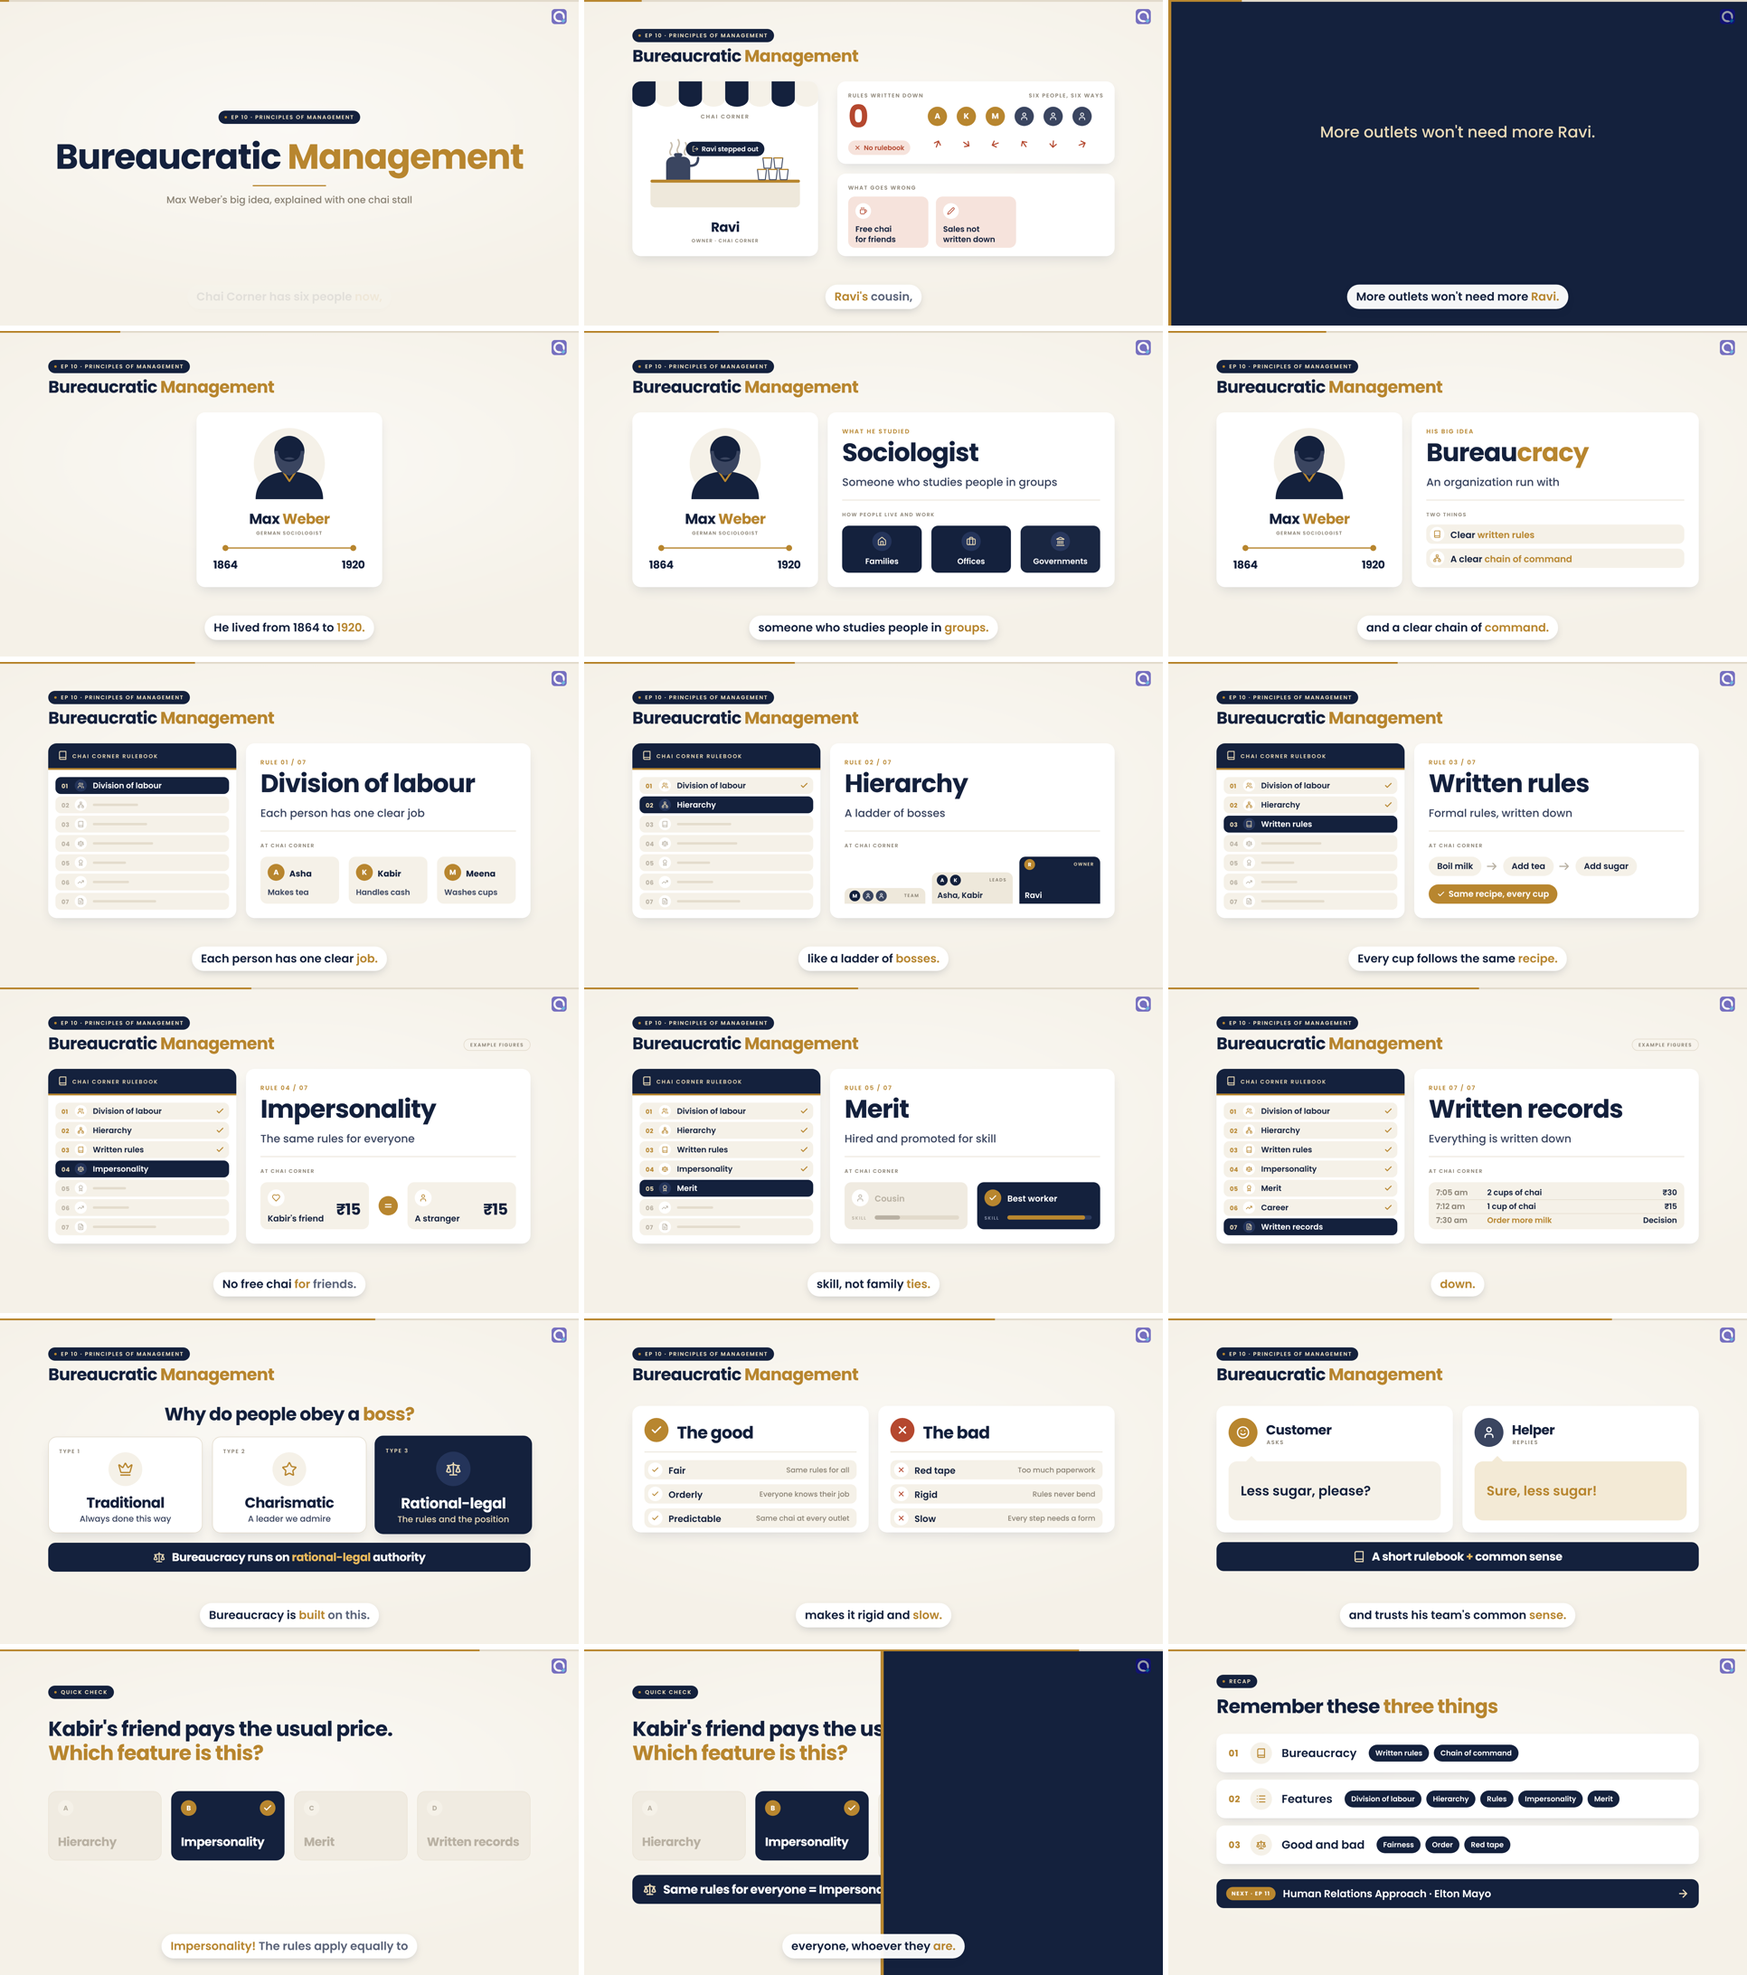
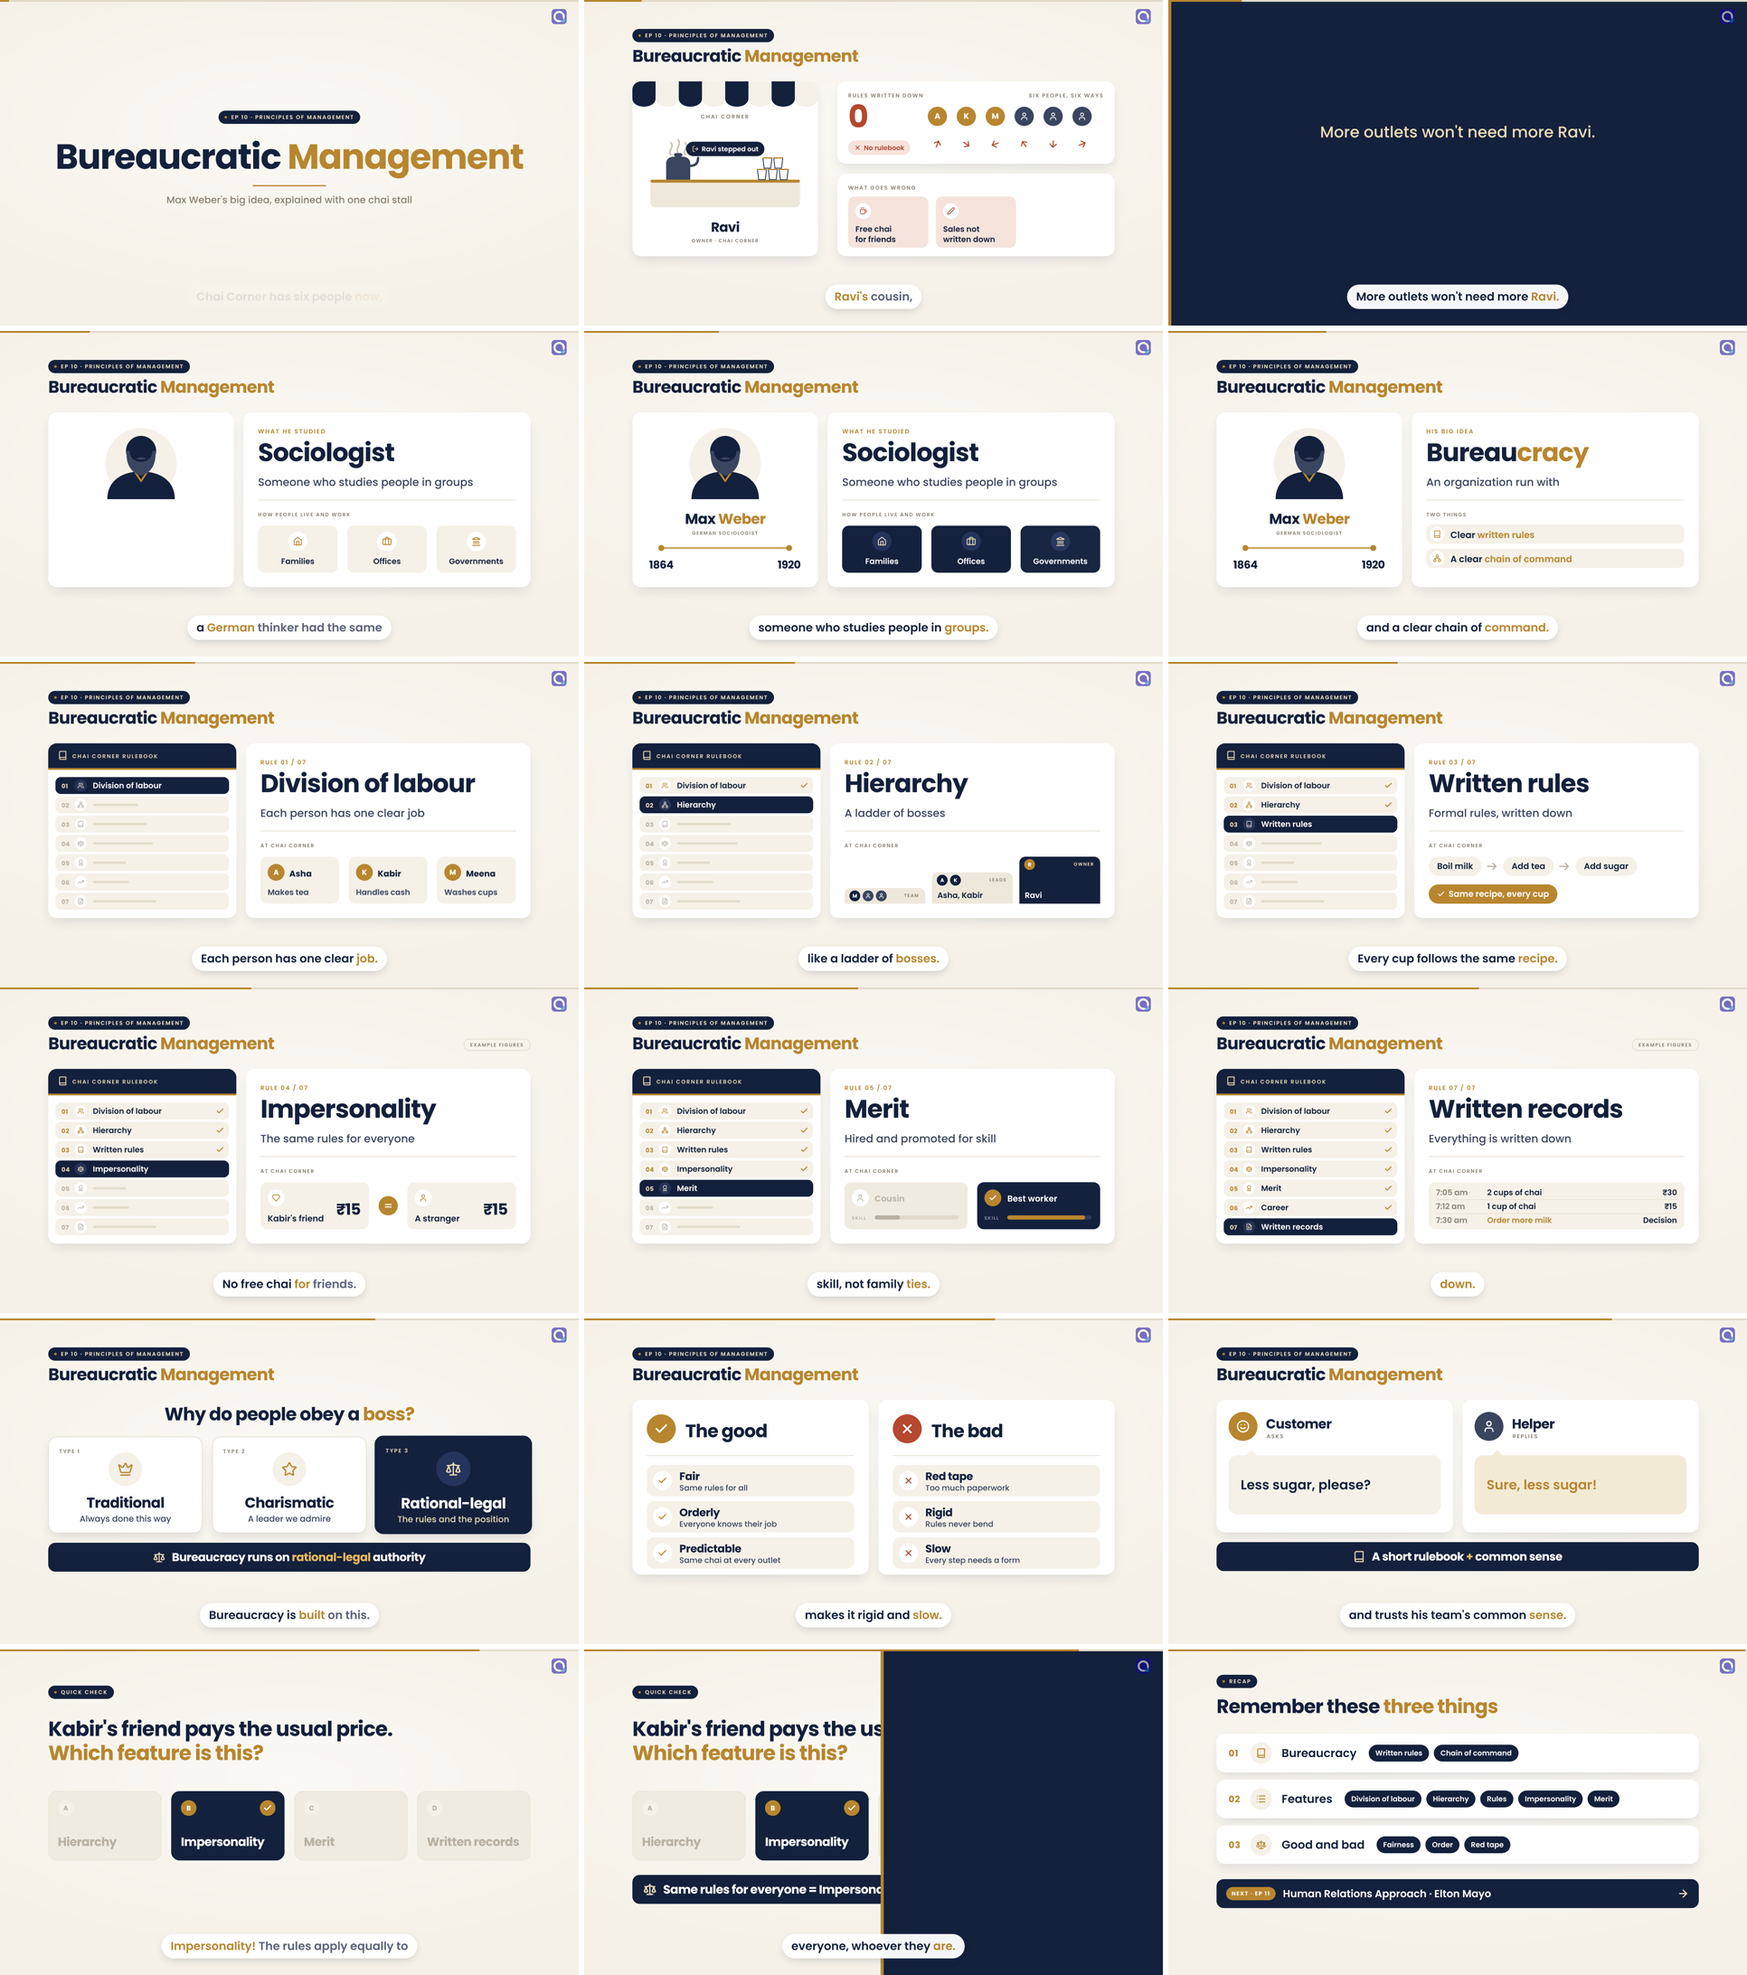
Ep 10 reviewed and ready (waits for Ep 8, 9)
Claude-Session: https://claude.ai/code/session_01SrxzR9RyYieueyBCph5jL3

diff --git a/videos/mba-systems-approach/scene.js b/videos/mba-systems-approach/scene.js
@@ -23,7 +23,7 @@ Object.assign(M.IC, {
 });
 
 /* ---------- beats (all from the voice) ---------- */
-const tTitle = 0.25, tSix = wt('H1', 'six'), tMorph = Math.max(2.3, tSix - 0.3), tBusy = wt('H1', 'busier');
+const tTitle = 0.25, tSix = wt('H1', 'six'), tMorph = T0('H2') - 0.35, tBusy = wt('H1', 'busier');
 const tBreak = wt('H2', 'breaks'), tKab = wt('H2', 'Kabir'), tStop = wt('C1', 'stops'), tPay = wt('C1', 'pay');
 const tCold = wt('C2', 'cold'), tClean = wt('C2', 'clean'), tWhole = wt('C3', 'whole'), tSmall = wt('C3', 'small');
 const tT = T0('T1'), tSt2 = wt('T1', 'It'), tTu = T0('D1') - 0.32;          // statement sweep: cover, line 2, uncover
@@ -61,10 +61,10 @@ const tJobBad = [tCold, tBreak, tClean];
 $('#jobRow').innerHTML = JOBS.map(([t, ic, l], i) => `<div class="job" id="job${i}" style="left:${36 + i * 291}px"><div class="ji"></div><div class="jt">${t}</div><div class="av">${l}</div></div>`).join('');
 // D: thinker + body/business
 $('#gstI').innerHTML = M.icon('network', 24, C.gold, 2.2);
-const lp = (i, x, y) => i ? `left:${x - 120}px;top:${y + 66}px` : `left:${x + 76}px;top:${y - 21}px;text-align:left`;
-const BN = [[392, 170, 'heart', 'Heart', 'cup', 'Kitchen'], [232, 370, 'wind', 'Lungs', 'coin', 'Cash'], [552, 370, 'brain', 'Brain', 'droplet', 'Cleaning']];
-$('#bN').innerHTML = BN.map(([x, y, , a, , b], i) => `<div class="on3" id="bn${i}" style="left:${x - 56}px;top:${y - 56}px"><div class="bg"></div><div class="oi"></div></div><div class="serif onl" id="bla${i}" style="${lp(i, x, y)}">${a}</div><div class="serif onl" id="blb${i}" style="${lp(i, x, y)}">${b}</div>`).join('');
-const seg = (a, b, r = 68) => { const dx = b[0] - a[0], dy = b[1] - a[1], L = Math.hypot(dx, dy), ux = dx / L, uy = dy / L; return `M${(a[0] + ux * r).toFixed(1)} ${(a[1] + uy * r).toFixed(1)} L${(b[0] - ux * r).toFixed(1)} ${(b[1] - uy * r).toFixed(1)}`; };
+const lp = (i, x, y) => i ? `left:${x - 120}px;top:${y + 78}px` : `left:${x + 88}px;top:${y - 24}px;text-align:left`;
+const BN = [[392, 190, 'heart', 'Heart', 'cup', 'Kitchen'], [232, 420, 'wind', 'Lungs', 'coin', 'Cash'], [552, 420, 'brain', 'Brain', 'droplet', 'Cleaning']];
+$('#bN').innerHTML = BN.map(([x, y, , a, , b], i) => `<div class="on3" id="bn${i}" style="left:${x - 64}px;top:${y - 64}px"><div class="bg"></div><div class="oi"></div></div><div class="serif onl" id="bla${i}" style="${lp(i, x, y)}">${a}</div><div class="serif onl" id="blb${i}" style="${lp(i, x, y)}">${b}</div>`).join('');
+const seg = (a, b, r = 82) => { const dx = b[0] - a[0], dy = b[1] - a[1], L = Math.hypot(dx, dy), ux = dx / L, uy = dy / L; return `M${(a[0] + ux * r).toFixed(1)} ${(a[1] + uy * r).toFixed(1)} L${(b[0] - ux * r).toFixed(1)} ${(b[1] - uy * r).toFixed(1)}`; };
 $('#bL').innerHTML = [[0, 1], [0, 2], [1, 2]].map(([a, b], i) => `<path id="bk${i}" d="${seg(BN[a], BN[b])}" stroke="${C.link}" stroke-width="4"/>`).join('');
 $('#dgI').innerHTML = M.icon('smile', 28, '#fff', 2.4);
 // P: subsystems
@@ -74,14 +74,14 @@ const STX = [48, 584, 1120];
 $('#sts').innerHTML = STS.map(([n, ic, pp], i) => `<div class="st" id="ss${i}" style="left:${STX[i]}px"><div class="bg"></div><div class="si"></div><div class="serif sn">${n}</div><div class="lbl sl">SUBSYSTEM 0${i + 1}</div>`
   + pp.map(([l, nm], k) => `<div class="pa" id="pa${i}_${k}" style="left:${28 + k * 196}px">${l || M.icon('user', 26, '#fff', 2.2)}</div><div class="pn2" id="pn${i}_${k}" style="left:${100 + k * 196}px">${nm}</div>`).join('') + `</div>`).join('');
 const ARH = (x, y, d) => `M${x - 9 * d} ${y - 10} L${x} ${y} L${x - 9 * d} ${y + 10}`;
-$('#sysL').innerHTML = [0, 1].map(i => { const x0 = STX[i] + 432 + 14, x1 = STX[i + 1] - 14, y = 196; return `<g id="sk${i}"><path id="skl${i}" d="M${x0} ${y} H${x1}" stroke-width="4"/><path id="ska${i}" d="${ARH(x1, y, 1)} M${x0 + 9} ${y - 10} L${x0} ${y} L${x0 + 9} ${y + 10}" stroke-width="4"/></g>`; }).join('');
+$('#sysL').innerHTML = [0, 1].map(i => { const x0 = STX[i] + 432 + 14, x1 = STX[i + 1] - 14, y = 208; return `<g id="sk${i}"><path id="skl${i}" d="M${x0} ${y} H${x1}" stroke-width="4"/><path id="ska${i}" d="${ARH(x1, y, 1)} M${x0 + 9} ${y - 10} L${x0} ${y} L${x0 + 9} ${y + 10}" stroke-width="4"/></g>`; }).join('');
 // I: the loop
 const IOX = [160, 728, 1296];
 const IO = [['Inputs', 'package', 'What goes in', ['Milk', 'Tea leaves', 'People']], ['Process', 'flame', 'Transformation', ['Asha', 'Boil and brew']], ['Outputs', 'cup', 'What comes out', ['Hot chai', 'Happy customers']]];
 $('#ios').innerHTML = IO.map(([t, ic, s, ps], i) => `<div class="io" id="io${i}" style="left:${IOX[i]}px"><div class="bg"></div><div class="ii"></div><div class="serif it">${t}</div><div class="is">${s}</div><div class="hr"></div>${ps.map((p, k) => `<div class="ip" id="ip${i}_${k}">${p}</div>`).join('')}</div>`).join('');
-const LY = 414;
+const LY = 435;
 let ll = [0, 1].map(i => { const x0 = IOX[i] + 464 + 18, x1 = IOX[i + 1] - 18; return `<path id="la${i}" d="M${x0} ${LY} H${x1}" stroke="${C.gold}" stroke-width="5"/><path id="lh${i}" d="${ARH(x1, LY, 1)}" stroke="${C.gold}" stroke-width="5"/>`; }).join('');
-ll += `<path id="fbl" d="M1528 574 V650 H392 V574" stroke="${C.gold}" stroke-width="5"/><path id="fbh" d="M382 586 L392 574 L402 586" stroke="${C.gold}" stroke-width="5"/>`;
+ll += `<path id="fbl" d="M1528 616 V690 H392 V616" stroke="${C.gold}" stroke-width="5"/><path id="fbh" d="M382 628 L392 616 L402 628" stroke="${C.gold}" stroke-width="5"/>`;
 $('#loopL').innerHTML = ll;
 $('#fbI').innerHTML = M.icon('refresh', 24, '#fff', 2.4); $('#fbsI').innerHTML = M.icon('refresh', 44, C.gold2, 2.4);
 // O: open system
@@ -96,6 +96,8 @@ $('#envL').innerHTML = ENV.map(([, , x, y], i) => { const cy = y + 107, a = x < 
 $('#op0I').innerHTML = M.icon('trendUp', 26, C.gold2, 2.4); $('#op1I').innerHTML = M.icon('store', 26, C.gold2, 2.2); $('#opA').innerHTML = M.icon('arrowR', 40, C.gold, 2.4);
 // Y: synergy
 $('#yic').innerHTML = M.icon('zap', 48, C.gold, 2);
+const YA = ['R', 'A', 'K', 'M', '', ''];
+$('#yas').innerHTML = YA.map((l, k) => `<div class="ya" id="ya${k}" style="left:${48 + k * 112}px;background:${k === 0 ? C.gold : (l ? C.ink : C.ink2)}">${l || M.icon('user', 32, '#fff', 2.2)}</div>`).join('');
 // quiz
 const OPTS = ['Input', 'Process', 'Output', 'Feedback'], RIGHT = 3;
 $('#opts').innerHTML = OPTS.map((o, i) => `<div class="opt" id="o${i}" style="left:${160 + i * 408}px"><div class="bg"></div><div class="lt">${'ABCD'[i]}</div><div class="ot serif">${o}</div><div class="ok">${M.icon('check', 30, '#fff', 3)}</div></div>`).join('');
@@ -163,16 +165,16 @@ M.on(t => {
     M.vis($('#crew'), t, tMorph + 0.3, 1e9, { dy: 36 });
     const hurt = M.io((t - tWhole) / 0.5);
     CREW.forEach((_, i) => {
-      const a = $('#cw' + i), tin = tSix + 0.05 + i * 0.08;
+      const a = $('#cw' + i), tin = tMorph + 0.55 + i * 0.08;
       M.vis(a, t, tin, 1e9, { dy: 0, sc: 0.5, sp: M.POP, fade: 0.08 }); M.vis($('#cn' + i), t, tin + 0.08, 1e9, { dy: 8 });
       const base = i === 0 ? C.gold : (i >= 4 ? C.ink2 : C.ink);
       const bad = i === 2 ? M.io((t - tBreak) / 0.3) : hurt;
       a.style.background = mix(base, C.red, bad);
       if (i === 2) pulse(a, t, tBreak, 0.12, 0.5);
     });
-    M.vis($('#wLine'), t, tBusy, 1e9, { dy: 16 });
+    M.vis($('#wLine'), t, tMorph + 1.0, 1e9, { dy: 16 });
     const stop = M.io((t - tPay) / 0.4);
-    const n = 6 * M.o3((t - tBusy) / 0.8) + 20 * M.o3((t - tStop) / 2.2);
+    const n = 6 * M.o3((t - tMorph - 1.0) / 0.8) + 20 * M.o3((t - tStop) / 2.2);
     M.setT($('#wLt'), stop < 0.5 ? `${Math.round(n)} waiting` : `${Math.round(n)} waiting · line stopped`);
     const wl = $('#wLine'); wl.style.background = mix(C.paper, C.redBg, stop); wl.style.color = mix(C.ink, C.red, stop);
     setIco($('#wLi'), stop > 0.5 ? 'timer' : 'users', stop > 0.5 ? C.red : C.ink, 24);
@@ -205,6 +207,7 @@ M.on(t => {
     const o = { outDur: 0.3, ody: -16 };
     M.rise($('#dq'), t, tD1 + 0.05, { st: 0.07, sp: M.HEAVY, out: t50 - 0.45, outDur: 0.3 });
     M.vis($('#thinker'), t, t50 - 0.3, tDout, { dy: 36, ...o });
+    { const sh = M.spring(t - (tD3 - 0.3), M.HEAVY); $('#thinker').style.width = sh >= 1 ? '784px' : (784 + 816 * (1 - sh)).toFixed(2) + 'px'; $('#thIn').style.transform = sh >= 1 ? 'none' : `translateX(${(408 * (1 - sh)).toFixed(2)}px)`; }
     M.vis($('#y50'), t, t50 - 0.05, 1e9, { dy: 0, sc: 0.7, sp: M.POP, fade: 0.08 });
     M.vis($('#y60'), t, t60 - 0.05, 1e9, { dy: 0, sc: 0.7, sp: M.POP, fade: 0.08 });
     const yr = on01(t, t50 - 0.05, tLud - 0.2); ['#y50', '#y60'].forEach(s => { $(s).style.background = mix(C.paper, C.gold, yr); $(s).style.color = mix(C.ink, '#fff', yr); });
@@ -214,19 +217,19 @@ M.on(t => {
     M.vis($('#ltag'), t, tAus - 0.1, 1e9, { dy: 10 });
     M.vis($('#lidea'), t, tBio + 0.45, 1e9, { dy: 10 });
     M.vis($('#gst'), t, tBio + 0.6, 1e9, { dy: 0, sc: 0.7, sp: M.POP, fade: 0.08 });
-    M.vis($('#bodyc'), t, tD3 - 0.1, tDout, { dy: 36, ...o });
+    M.vis($('#bodyc'), t, tD3 - 0.05, tDout, { dx: 60, dy: 0, ...o });
     const biz = M.io((t - tBiz) / 0.3);
     M.vis($('#bl0'), t, tD3 + 0.1, tBiz - 0.1, { dy: 10, outDur: 0.2, ody: -10 });
     M.vis($('#bl1'), t, tBiz + 0.1, 1e9, { dy: 10 });
     M.vis($('#blr'), t, tNeeds - 0.05, 1e9, { dy: 10 });
     BN.forEach(([, , ia, , ib], i) => {
-      const el = $('#bn' + i), tin = tLiv + i * 0.14;
+      const el = $('#bn' + i), tin = tLiv - 0.3 + i * 0.14;
       M.vis(el, t, tin, 1e9, { dy: 0, sc: 0.5, sp: M.POP, fade: 0.08 });
       M.vis($('#bla' + i), t, tin + 0.1, tBiz - 0.1 + i * 0.06, { dy: 10, outDur: 0.2, ody: -10 });
       M.vis($('#blb' + i), t, tBiz + 0.12 + i * 0.06, 1e9, { dy: 10 });
       const act = Math.max(on01(t, tNeeds, tD4 - 0.1), on01(t, tBiz + i * 0.06, tD5));
       const bg = el.querySelector('.bg'); bg.style.background = mix(C.paper, C.gold, act); bg.style.borderColor = mix(C.line, C.gold, act);
-      setIco(el.querySelector('.oi'), t < tBiz + i * 0.06 ? ia : ib, act > 0.5 ? '#fff' : C.gold, 48, 2);
+      setIco(el.querySelector('.oi'), t < tBiz + i * 0.06 ? ia : ib, act > 0.5 ? '#fff' : C.gold, 56, 2);
       pulse(el, t, tBiz + i * 0.06, 0.1, 0.4);
     });
     [0, 1, 2].forEach(i => { const k = $('#bk' + i); M.draw(k, t, tSys3 + i * 0.1, 0.5, M.o3); k.setAttribute('stroke', mix(C.link, C.gold, Math.max(on01(t, tNeeds, tD4 - 0.1), on01(t, tBiz, tD5)))); });
@@ -257,7 +260,7 @@ M.on(t => {
       M.vis(el.querySelector('.sl'), t, tSub + i * 0.08, 1e9, { dy: 8 });
       el.querySelector('.sl').style.color = bad > 0.5 ? C.red : (seen ? C.gold : C.muted);
       el.querySelector('.si').style.background = mix(mix(C.card, C.paper, seen ? 1 : 0), C.card, bad);
-      setIco(el.querySelector('.si'), ic, bad > 0.5 ? C.red : (seen ? C.gold : C.dim), 30, 2.2);
+      setIco(el.querySelector('.si'), ic, bad > 0.5 ? C.red : (seen ? C.gold : C.dim), 34, 2.2);
       pp.forEach((_, k) => {
         M.vis($(`#pa${i}_${k}`), t, ta + 0.1 + k * 0.1, 1e9, { dy: 0, sc: 0.5, sp: M.POP, fade: 0.08 });
         M.vis($(`#pn${i}_${k}`), t, ta + 0.18 + k * 0.1, 1e9, { dy: 8 });
@@ -288,7 +291,7 @@ M.on(t => {
       const bg = el.querySelector('.bg'); bg.style.background = mix(C.card, C.ink, act); bg.style.borderColor = mix(C.line, C.ink, act);
       el.querySelector('.it').style.color = mix(mix(C.dim, '#fff', on), C.ink, off);
       el.querySelector('.ii').style.background = mix(C.paper, '#24345A', act);
-      setIco(el.querySelector('.ii'), ic, t < ta ? C.dim : (t < td ? C.gold2 : C.gold), 40, 2.2);
+      setIco(el.querySelector('.ii'), ic, t < ta ? C.dim : (t < td ? C.gold2 : C.gold), 44, 2.2);
       const is = el.querySelector('.is'); M.rise(is, t, (i === 1 ? tTrans : ta) + 0.1, { st: 0.04 }); is.style.color = mix(C.gold2, C.gold, off);
       el.querySelector('.hr').style.background = mix(C.line, '#2C3B5E', act);
       ps.forEach((_, k) => { const p = $(`#ip${i}_${k}`); M.vis(p, t, tIP[i][k] - 0.05, 1e9, { dy: 0, sc: 0.7, sp: M.POP, fade: 0.08 }); p.style.background = mix(C.paper, '#24345A', act); p.style.color = mix(C.ink, '#fff', act); });
@@ -339,13 +342,17 @@ M.on(t => {
   const yOn = t >= tY1 - 0.1 && t < tQ + 0.05; M.hide($('#sY'), !yOn);
   if (yOn) {
     M.vis($('#syn'), t, tSyn - 0.6, 1e9, { dy: 36 });
+    { const sh = M.spring(t - (tY3 - 0.35), M.HEAVY); $('#syn').style.width = sh >= 1 ? '784px' : (784 + 816 * (1 - sh)).toFixed(2) + 'px'; $('#synIn').style.transform = sh >= 1 ? 'none' : `translateX(${(408 * (1 - sh)).toFixed(2)}px)`; }
+    { const tA = wt('Y3', 'alone'), g = M.lerp(40, 8, M.spring(t - tTeam, M.SOFT)), tog = M.io((t - tTeam) / 0.4);
+      YA.forEach((_, k) => { const el = $('#ya' + k); M.vis(el, t, tA - 0.3 + k * 0.07, 1e9, { dy: 0, sc: 0.5, sp: M.POP, fade: 0.08 }); el.style.left = (48 + k * (72 + g)).toFixed(2) + 'px'; });
+      const yl = $('#yline'); M.vis(yl, t, tA + 0.2, 1e9, { dy: 0, fade: 0.2 }); yl.style.width = (5 * (72 + g)).toFixed(2) + 'px'; yl.style.background = mix(C.line, C.gold, tog); }
     M.vis($('#yic'), t, tSyn - 0.4, 1e9, { dy: 0, sc: 0.6, sp: M.POP, fade: 0.08 });
     M.rise($('#yT'), t, tSyn - 0.05, { st: 0.06, sp: M.HEAVY });
     M.rise($('#yM'), t, tWh - 0.1, { st: 0.05 });
     M.vis($('#yhr'), t, tSum - 0.1, 1e9, { dy: 0 });
     M.vis($('#ylb'), t, tSum, 1e9, { dy: 10 });
     M.rise($('#yF'), t, tParts - 0.2, { st: 0.08, sp: M.HEAVY });
-    M.vis($('#yR'), t, tY3 - 0.15, 1e9, { dy: 36 });
+    M.vis($('#yR'), t, tY3 - 0.1, 1e9, { dx: 60, dy: 0 });
     M.vis($('#yBig'), t, tHund - 0.1, 1e9, { dy: 0, sc: 0.6, sp: M.POP, fade: 0.1 });
     [[tSixty - 0.35, 312, 60, C.muted, '#E7E0D2'], [tTeam - 0.1, 520, 100, C.ink, C.gold]].forEach(([ta, w, v, vc, bc], k) => {
       const el = $('#yb' + k), bt = el.querySelector('.bt'), bv = el.querySelector('.bv');
